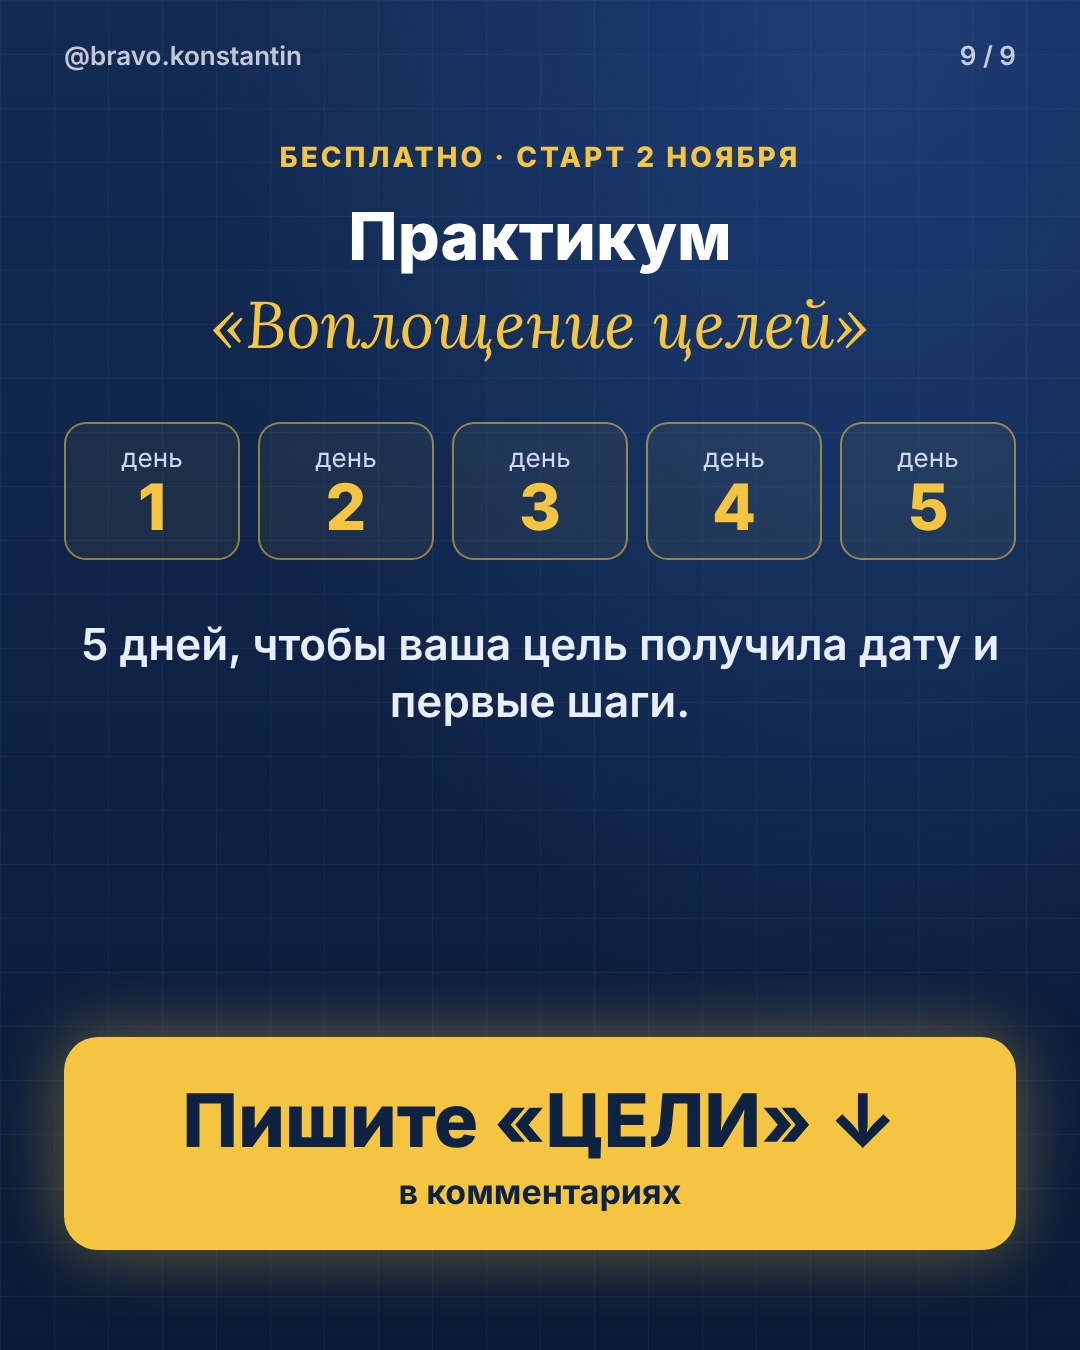
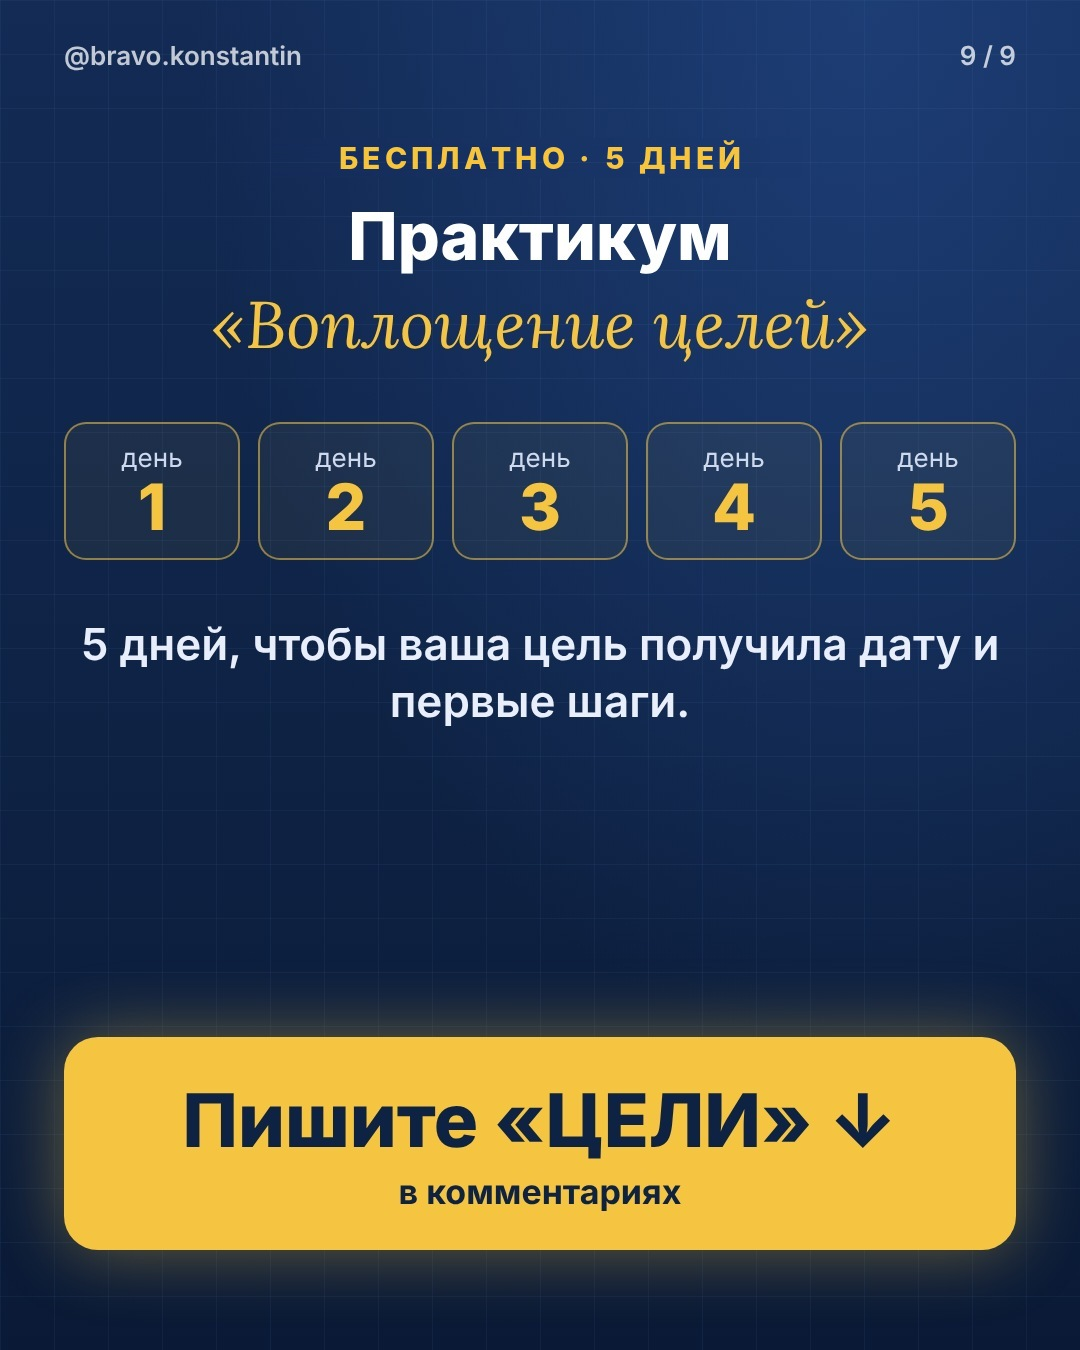
Карусели 2-3.11: CTA без даты, подписи; кодовое слово ЦЕЛИ
Claude-Session: https://claude.ai/code/session_01L3egFGyMjpZ3VTXgZhWd66

Changed region(s): [[0.2444, 0.0933, 0.7333, 0.1244]]

diff --git a/KODOVOE_SLOVO.md b/KODOVOE_SLOVO.md
@@ -1,0 +1,6 @@
+# Кодовое слово для каруселей (решение пользователя от 03.11.2026)
+
+Продолжаем использовать слово «ЦЕЛИ». Продукт: бесплатный практикум «Воплощение целей», 5 дней.
+Дату старта НЕ указывать (практикум стартовал 2 ноября). 
+CTA-слайд: «БЕСПЛАТНО · 5 ДНЕЙ», «Практикум «Воплощение целей»», плитки день 1-5, кнопка «Пишите «ЦЕЛИ» ↓ в комментариях».
+Начало подписи: «Пишите «ЦЕЛИ» в комментариях, и я пришлю ссылку на бесплатный практикум «Воплощение целей». 5 дней, без сложных заданий.»
